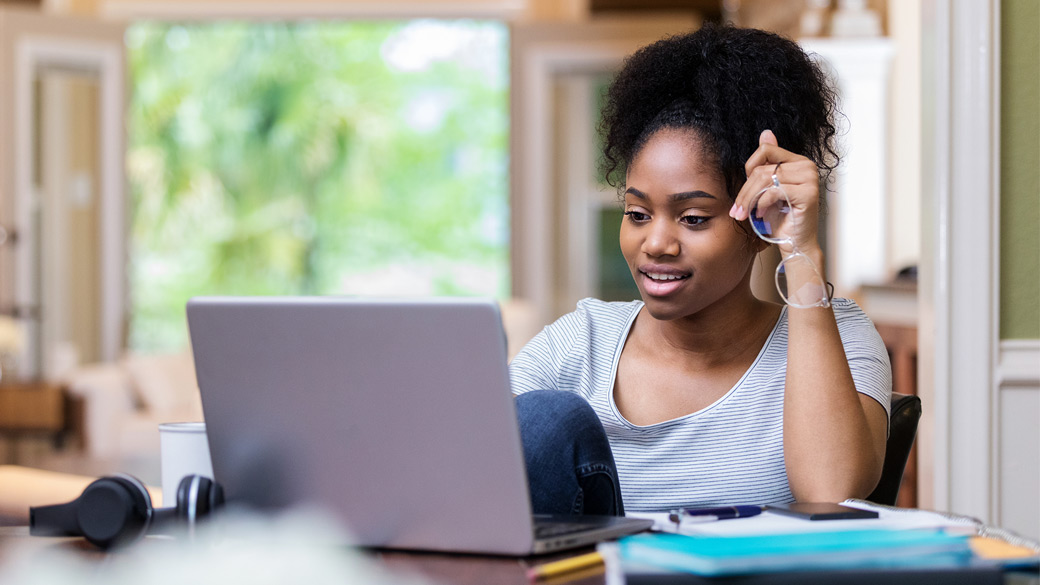
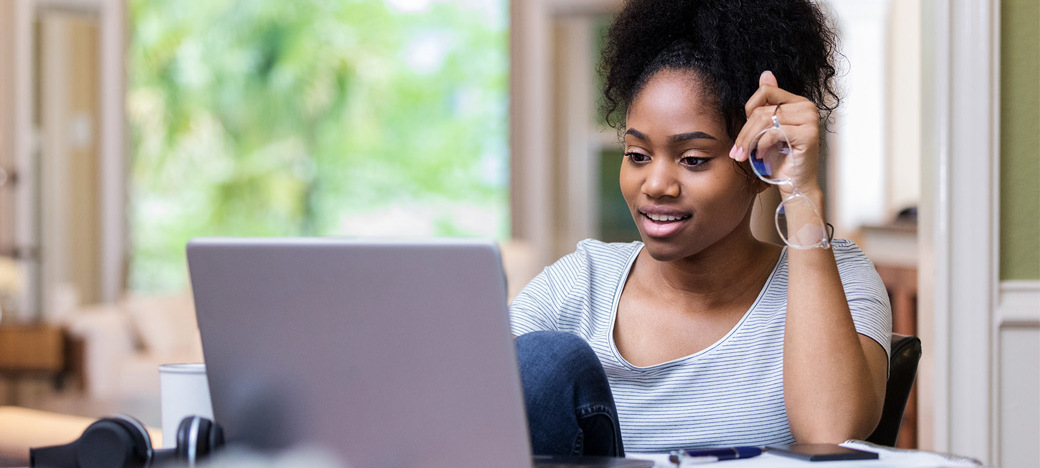
shorter image provided by Kim!

diff --git a/vue/src/App.vue b/vue/src/App.vue
@@ -44,6 +44,7 @@
     </div>
 
     <router-view class="content" />
+    <footer>lauren ipsum</footer>
   </div>
 </template>
 
@@ -124,7 +125,9 @@ export default {};
   align-items: center;
 }
 
-
+footer {
+  grid-area: footer;
+}
 
 #register > form {
   grid-area: content;

diff --git a/vue/src/views/Home.vue b/vue/src/views/Home.vue
@@ -13,6 +13,7 @@ export default {
 
 <style>
 img {
-  width: 115%;
+  height: 100%;
+  width: 100%;
 }
 </style>
